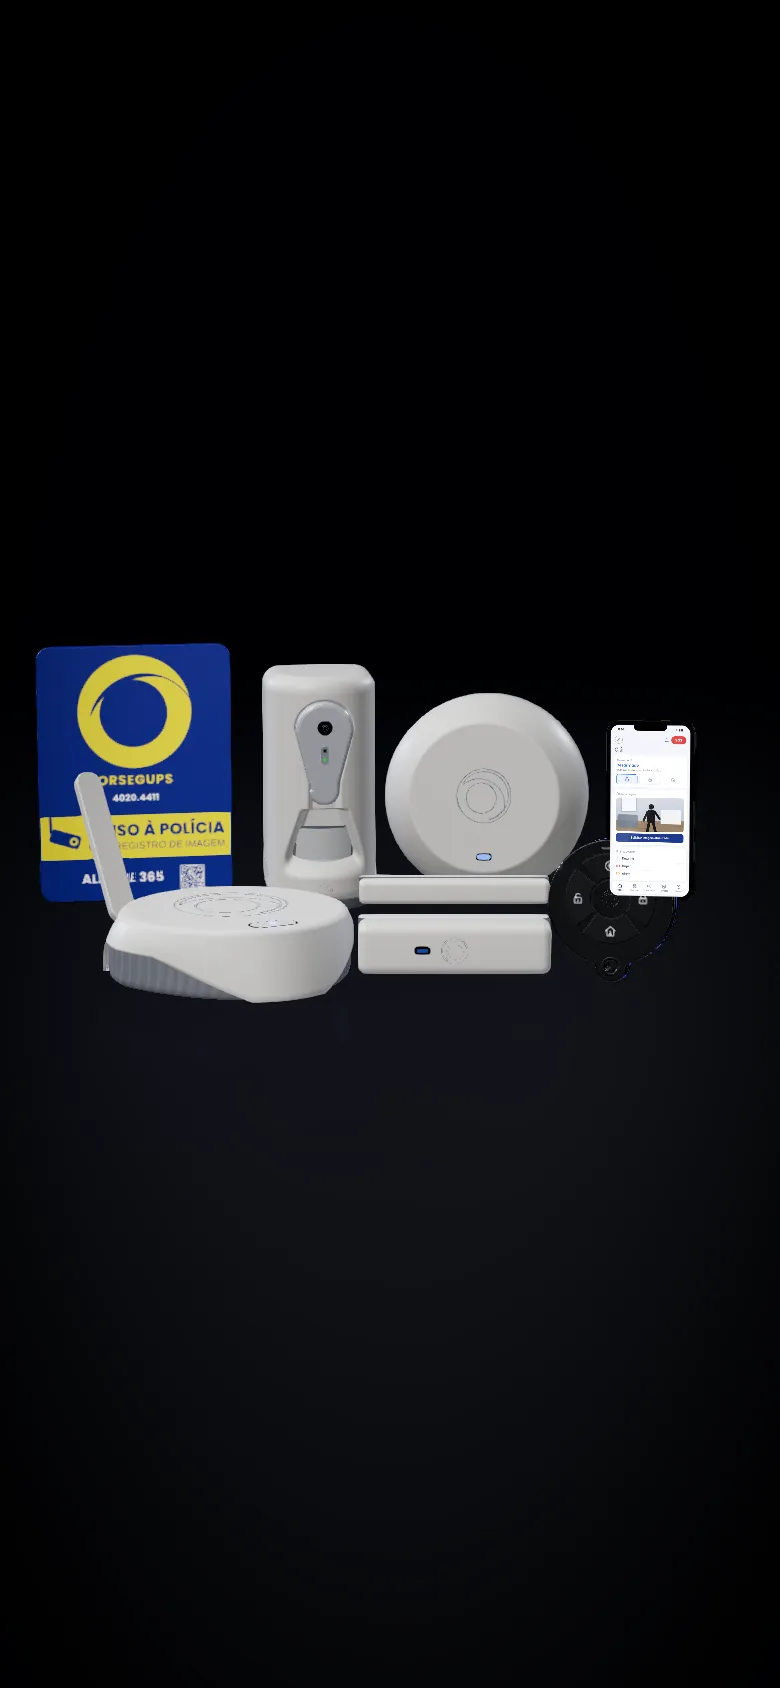
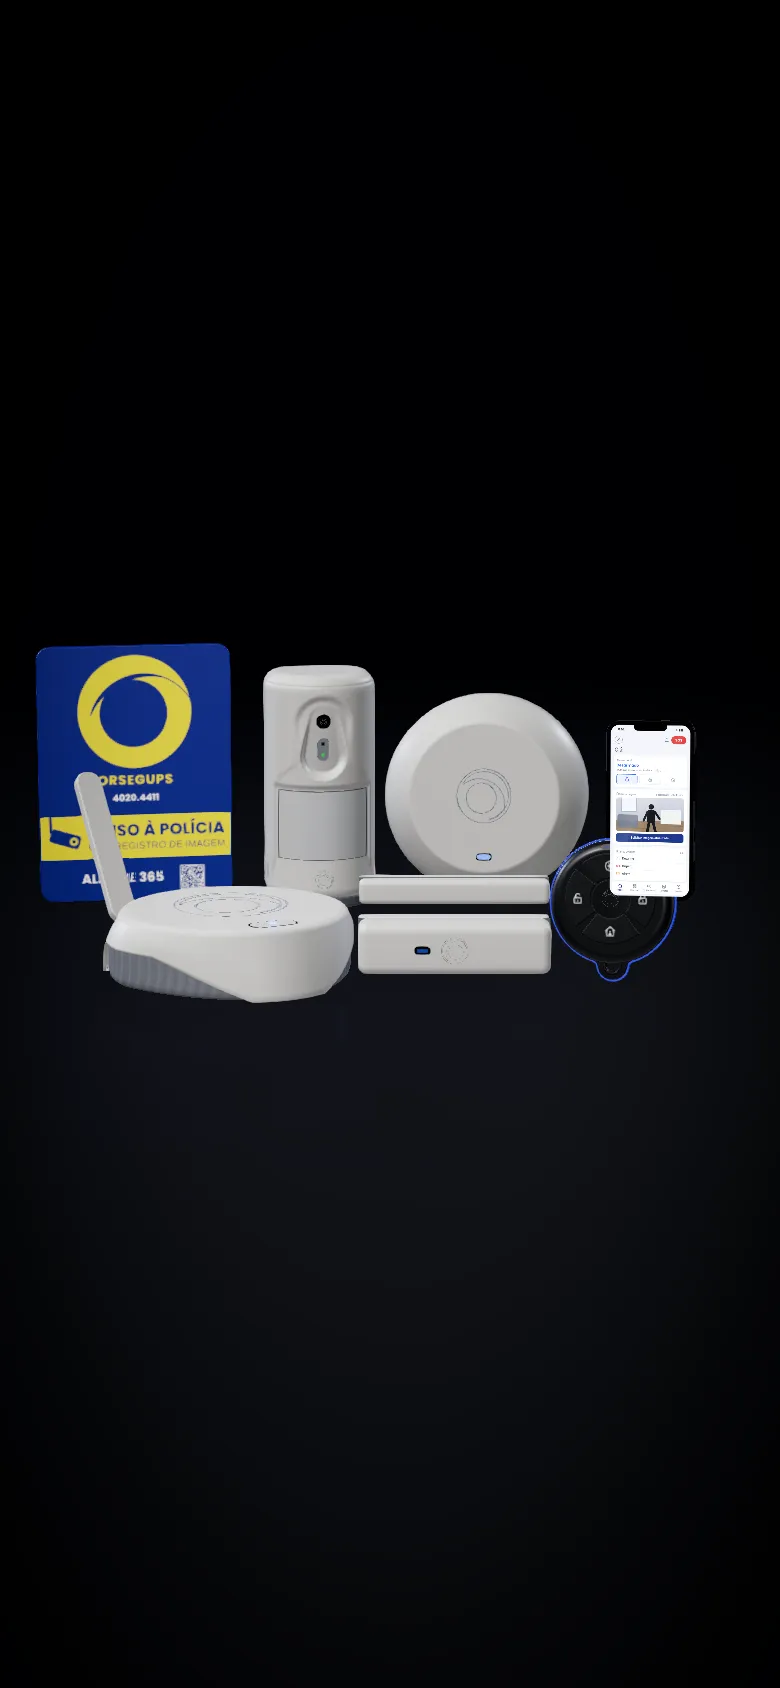
Docs, prints e imagem da abertura: fotossensor, controle, placas e cena
- docs/MODELAGEM.md: frente e planta do fotossensor, corpo do controle,
  placas internas e a cena "Em ação"
- docs/prints: fotossensor (com a vista de lado), controle (folha nova),
  módulo (fundo e Raio-X), sirene, magnético e a cena "Em ação"
- public/poster.webp e poster-m.webp: regenerados do build

Claude-Session: https://claude.ai/code/session_01JGedzfrxJd5vL5mskTPSnU

Changed region(s): [[0.3692, 0.4005, 0.4923, 0.5237], [0.7385, 0.5545, 0.8308, 0.5853], [0.7077, 0.4929, 0.7692, 0.5545]]

diff --git a/docs/MODELAGEM.md b/docs/MODELAGEM.md
@@ -30,7 +30,7 @@ Vista explodida, de cima para baixo: cúpula; placa (com o cartão do chip um po
 
 ## Fotossensor (68 × 144 × 94 mm com base e placa de fixação; 1 un = 79 mm; frente em +Z)
 
-O corpo (68 × 137 × 78 mm, mais fundo que largo) é uma casca gerada como superfície paramétrica (volta do contorno × altura): frente e laterais arredondadas, traseira mais plana, topo de borda arredondada. O capuz e o rebaixo do PIR (de ~20 a 64 mm de altura, ~61 mm de boca, fundo ~16 mm atrás da frente) são escavados na própria casca, com fundo e paredes; só a cápsula da câmera é saliente. O compartimento das pilhas também é aberto na casca. A casca sai em duas metades (frente e corpo traseiro), que se separam na vista explodida.
+O corpo tem 68 mm de largura, 137 de altura e a planta fecha um círculo: é tão fundo quanto largo, com a frente em meio-cilindro e a traseira bem arredondada. É uma casca gerada como superfície paramétrica (volta do contorno × altura), com a borda do topo arredondada e o sulco fino da tampa de cima. A frente tem três rebaixos, todos para DENTRO do corpo: o capuz raso em arco; dentro dele, o bolso da câmera e do LED, em forma de pera alongada, com o fundo inclinado (raso em cima, mais fundo embaixo), onde ficam a lente e a janela oval do LED (não há peça saliente); e a moldura da lente PIR, um painel fosco grande (~53 × 42 mm), curvo como o corpo e ~3 mm para dentro dele, com a prateleira em cima, os chanfros dos lados e o queixo embaixo, onde fica o logo. O funil que leva até o sensor PIR fica por dentro, atrás da lente.
 
 | part.id | Como é modelada |
 |---|---|
@@ -74,6 +74,8 @@ A traseira também tem os furos quadrados e os ganchos em "L" do encaixe, e a et
 
 ## Controle Remoto (45 × 51 × 13 mm; 1 un = 25,9 mm; frente em +Z)
 
+O corpo é gordinho (um seixo, não uma moeda): duas placas finas no contorno inteiro, com a aba fina da argola, e dois ombros arredondados feitos como sólidos de revolução, um na frente e um atrás. Espessura no meio de ~14 mm.
+
 | part.id | Como é modelada |
 |---|---|
 | `btn-panico`, `btn-desarmar`, `btn-armar`, `btn-parcial` | Setores de anel extrudados, em cruz, com o ícone em textura. |
@@ -96,3 +98,11 @@ A traseira também tem os furos quadrados e os ganchos em "L" do encaixe, e a et
 ## Aplicativo (0,95 × 1,95)
 
 O corpo do celular é uma extrusão de cantos redondos. A tela é React de verdade dentro do 3D (`<Html transform occlude>`, em `src/ui/AppScreen.tsx`), e cada região é uma parte: `sos`, `alarme-geral`, `ultimas-imagens`, `ultimos-eventos` e `menu`.
+
+## Placas internas
+
+Cada placa leva os componentes que aparecem nas fotos reais, em grupos ordenados perto dos CIs: capacitores (bege), resistores e CIs pequenos (pretos), cristal (metal) e pontos de teste (dourados). Os bloquinhos de cada cor são fundidos numa malha só por placa (`boxesGeometry`), sem instâncias. A textura tem trilhas em feixes paralelos com vias. Nada vem do desenho técnico de fábrica e não há texto, etiqueta, QR ou marca.
+
+## Cena "Em ação"
+
+Sala em corte (paredes claras, piso de madeira, rodapé, janela, porta com batente, aparador, sofá e tapete), invasor que anda, leque de detecção do fotossensor no chão e ondas de rádio saindo de quem transmite em cada etapa. O celular acompanha: alarme armado, aviso do disparo e a tela "Imagem" do aplicativo.
